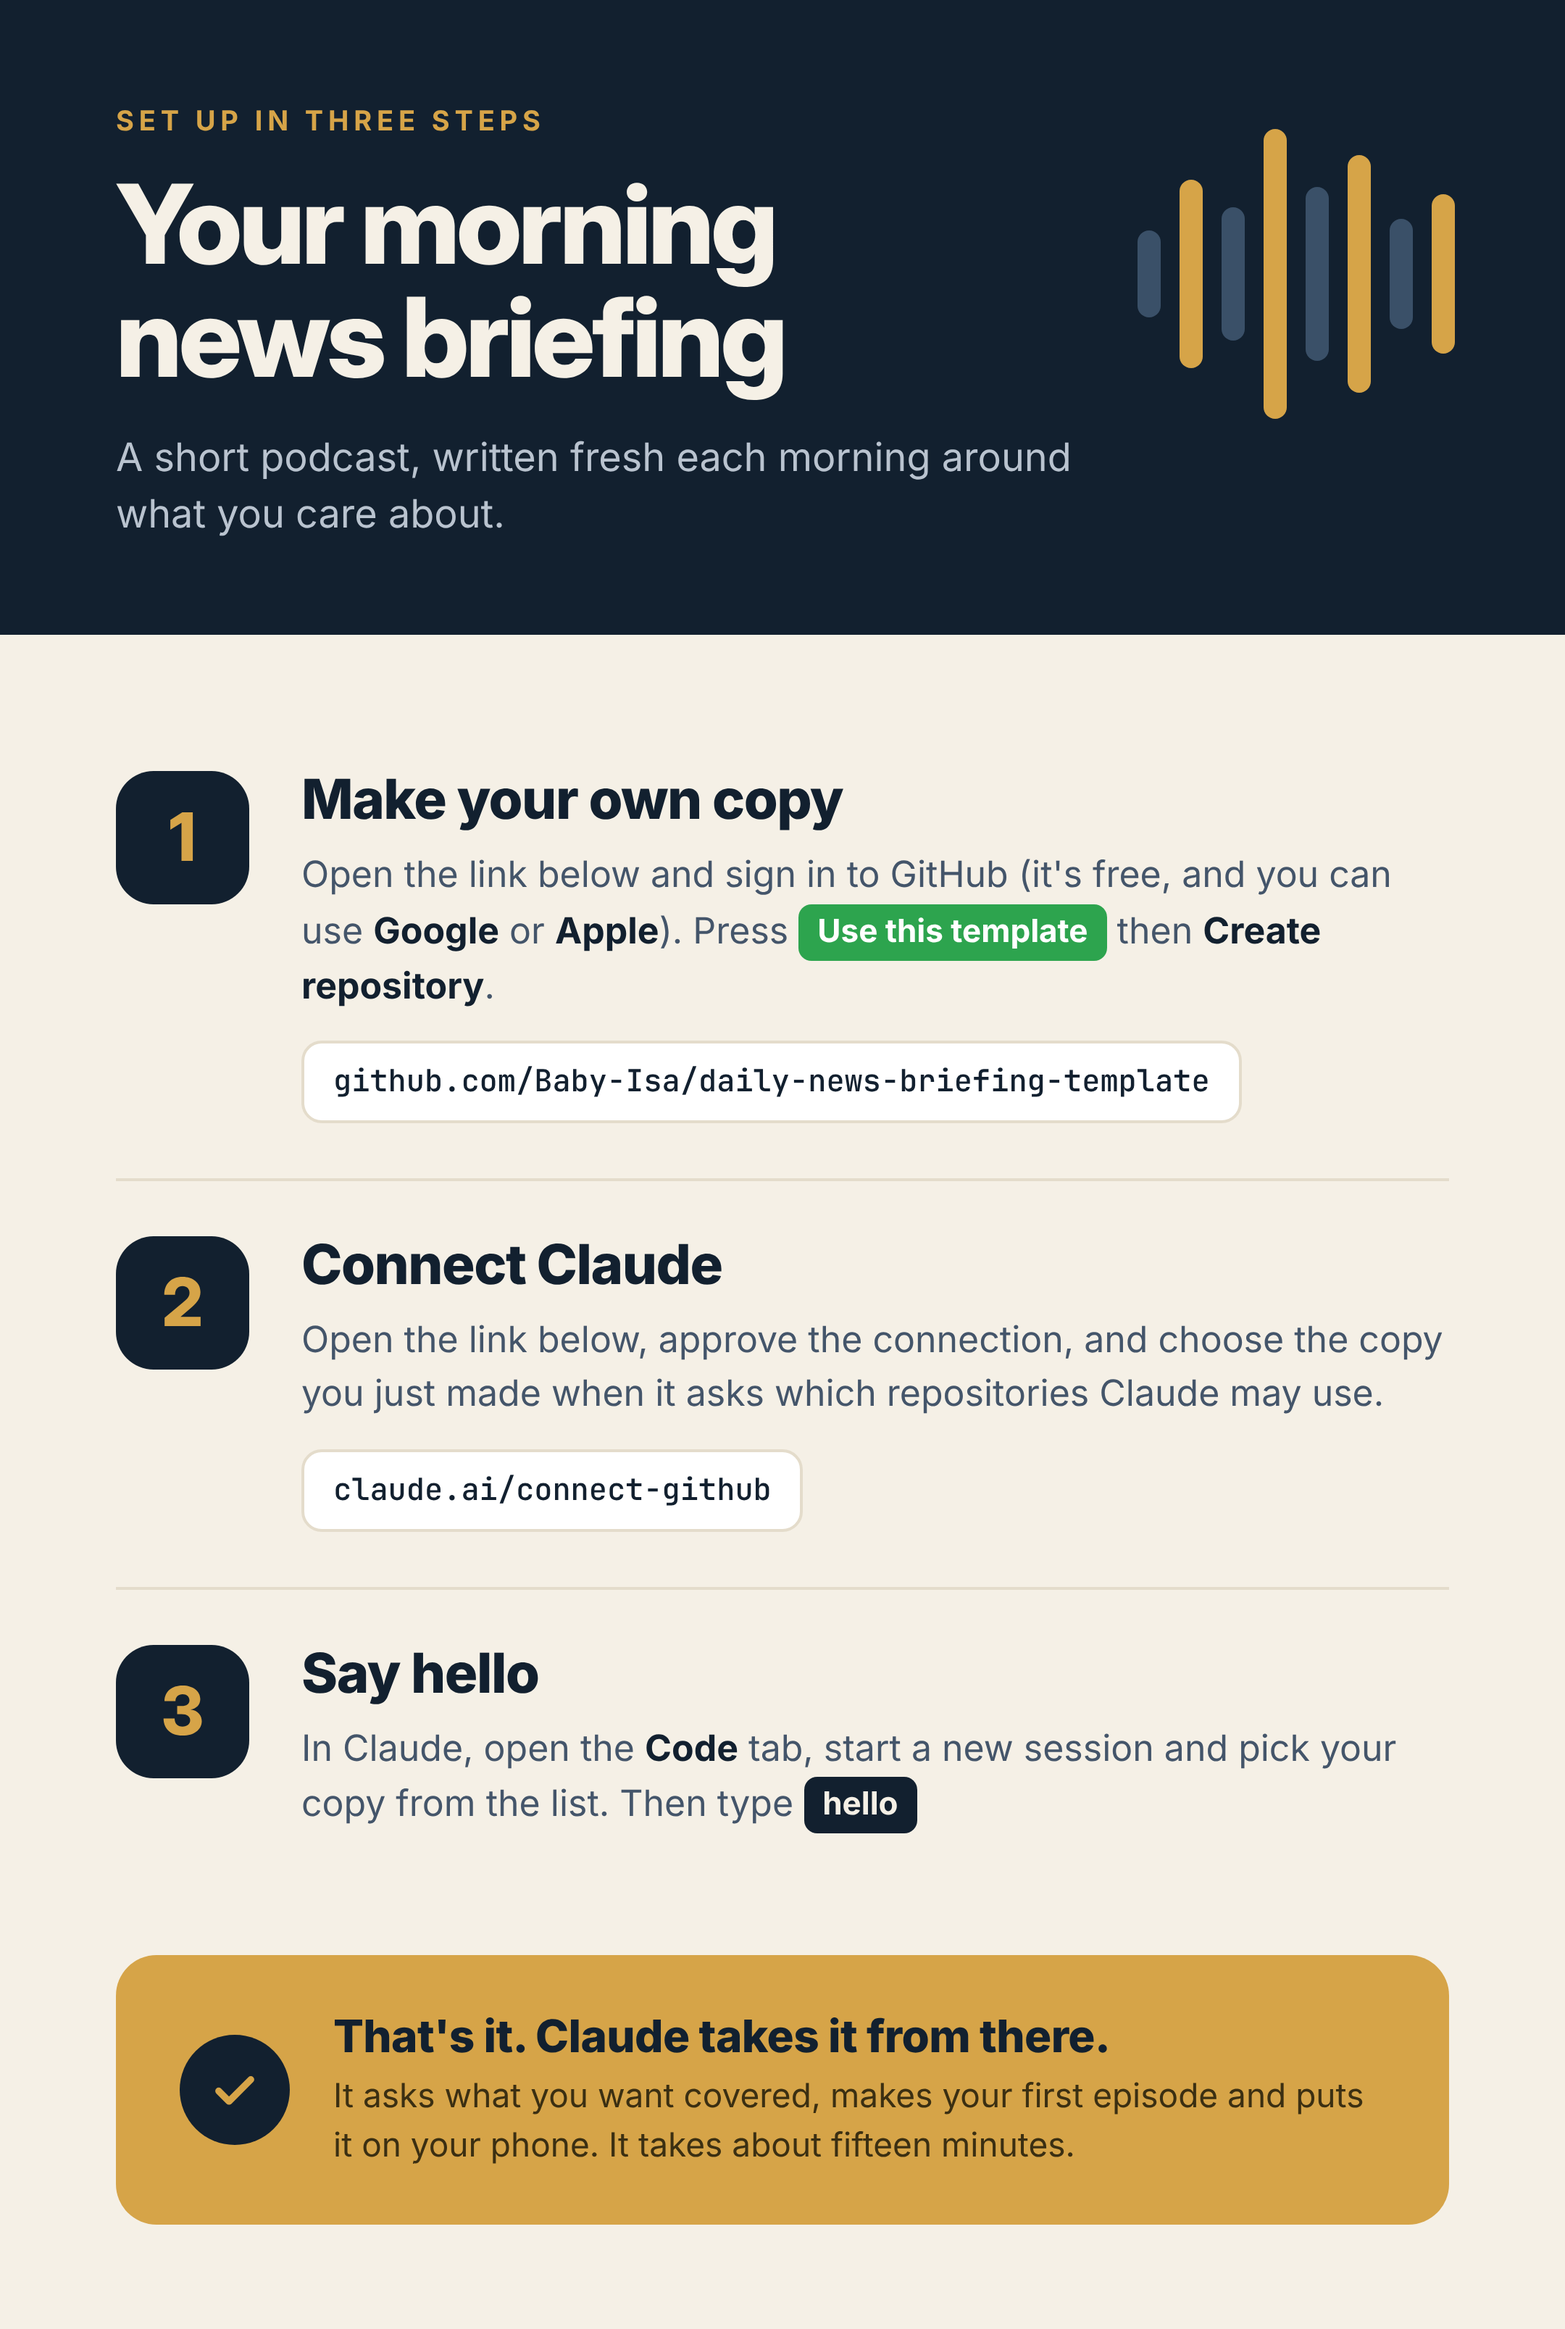
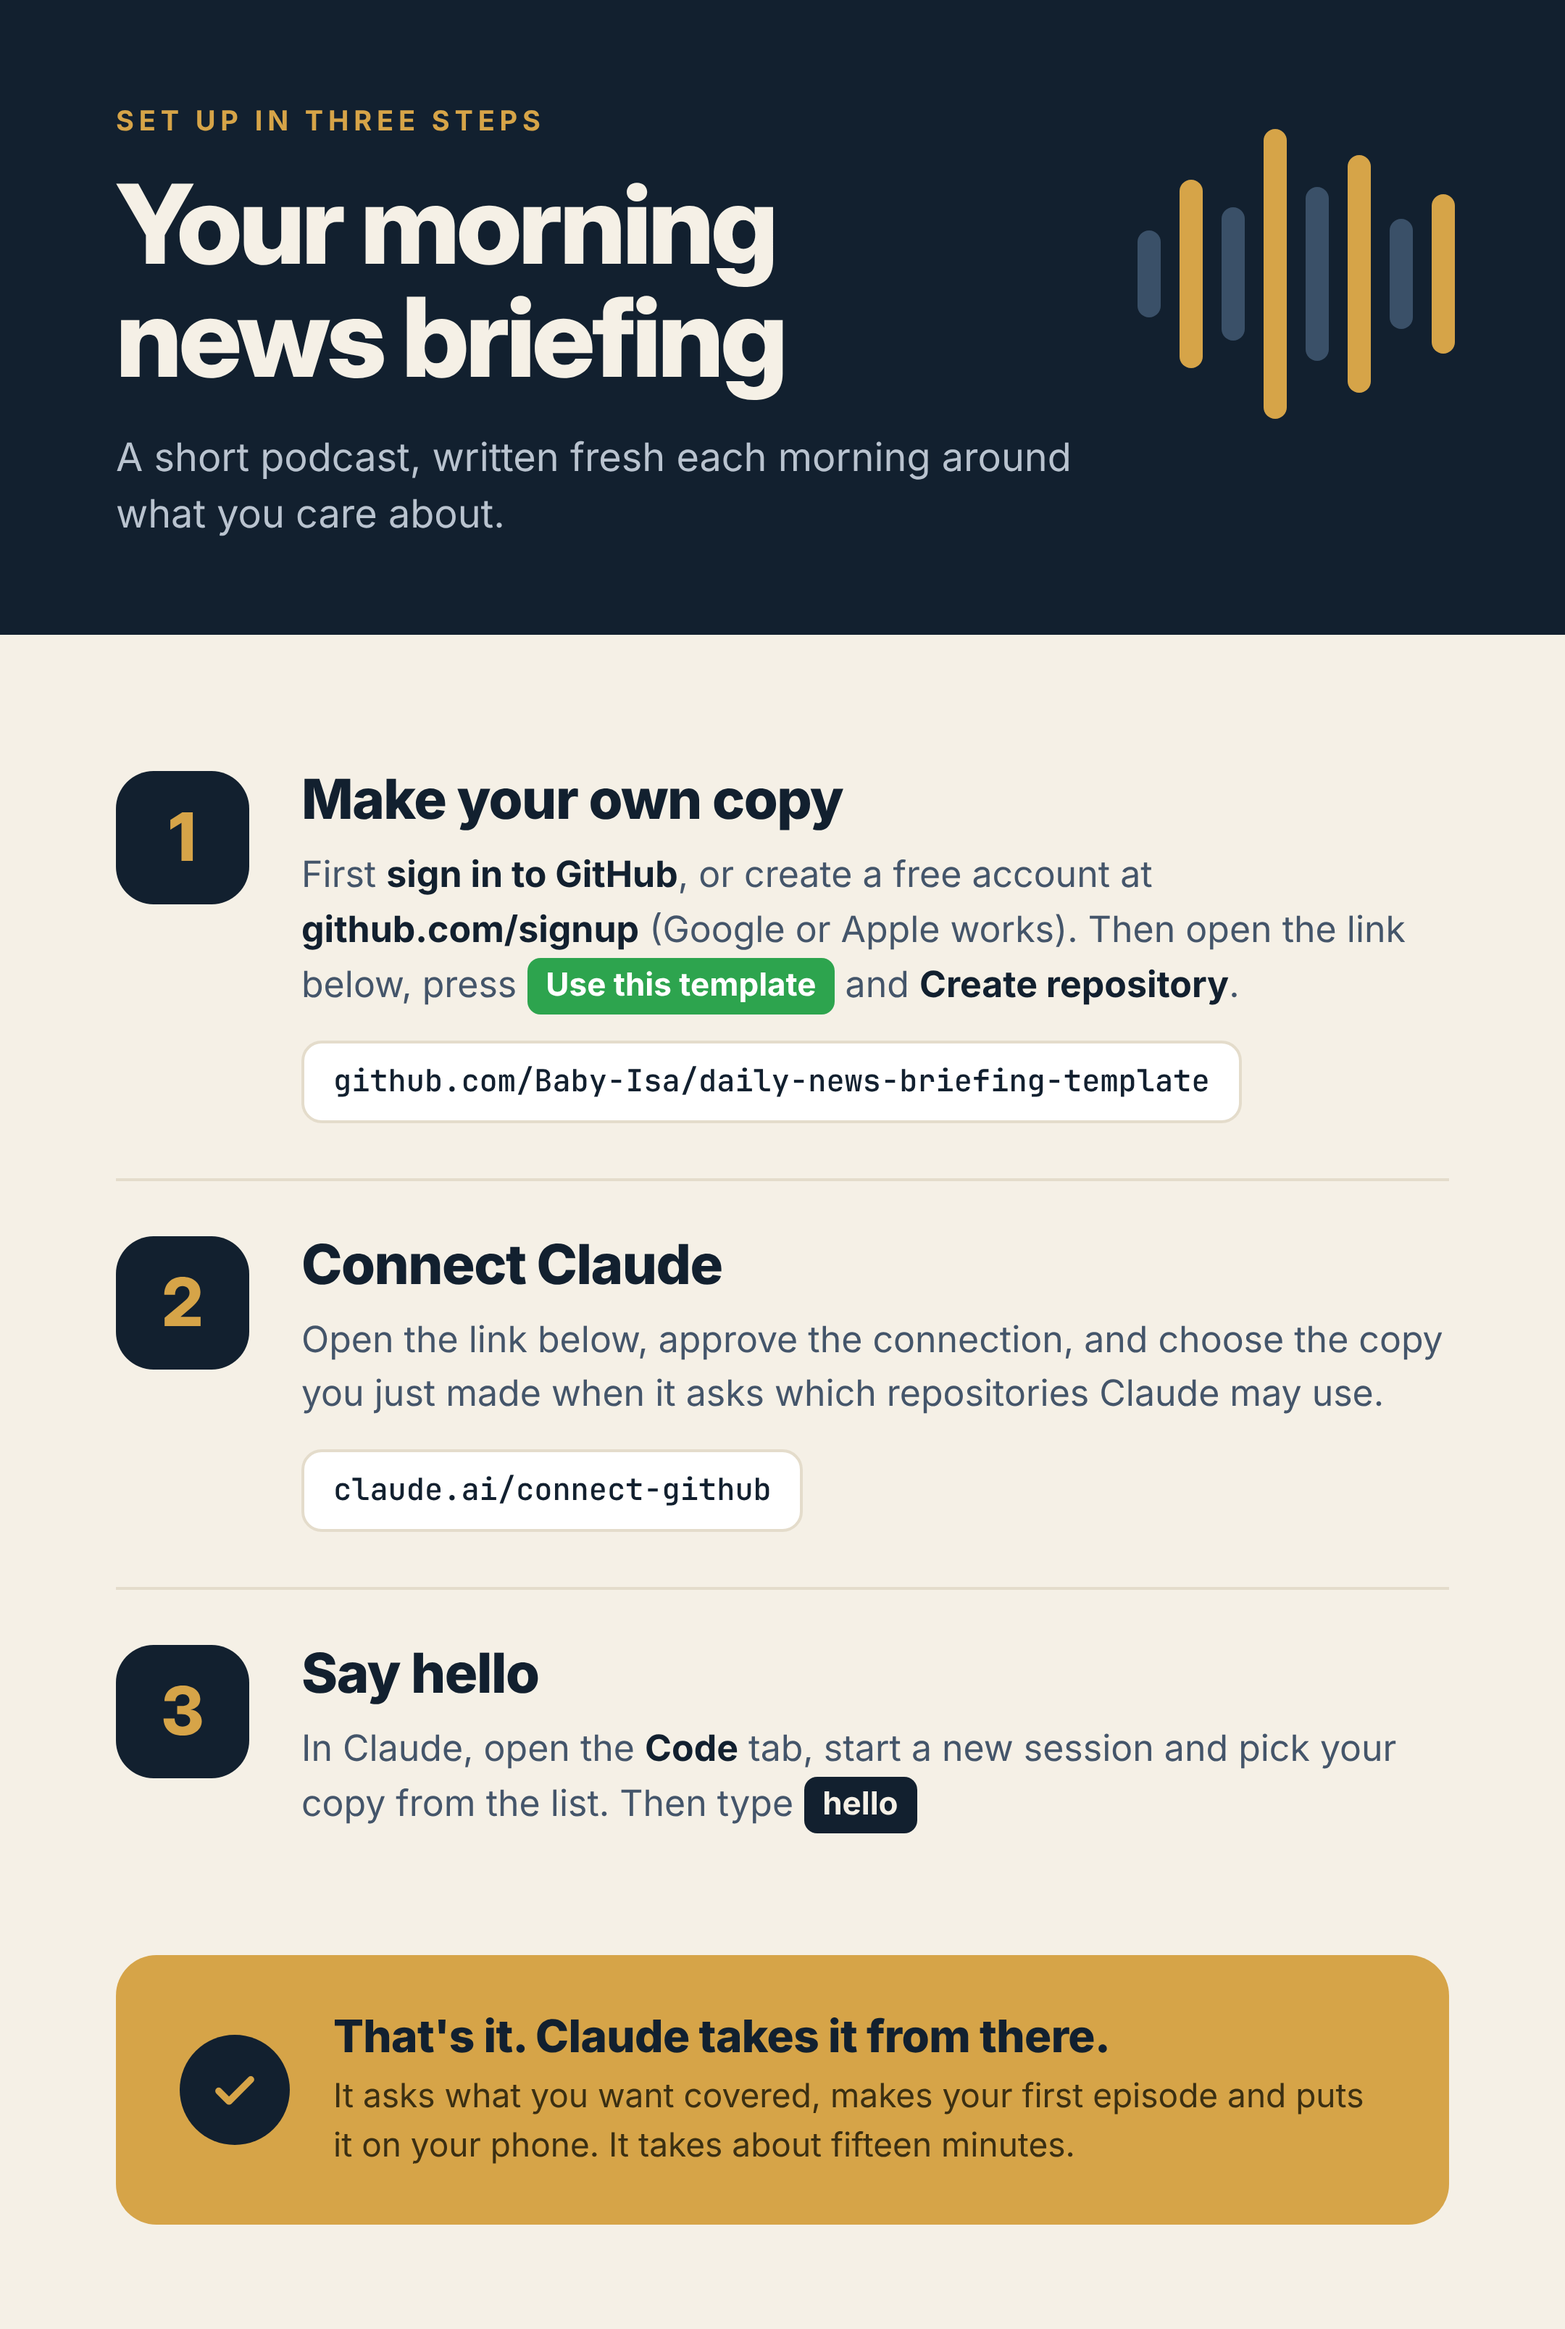
Guide and README: sign in to GitHub before looking for 'Use this template'
Claude-Session: https://claude.ai/code/session_014xb3kSs1bFerZKEqYihqMs

Changed region(s): [[0.1861, 0.3734, 0.8995, 0.4356]]

diff --git a/README.md b/README.md
@@ -13,8 +13,10 @@ in about fifteen minutes and then runs it for you.
 
 ## Set it up in three steps
 
-**1. Make your own copy.** Press the green **Use this template** button at
-the top of this page, then **Create a new repository**. Give it any name
+**1. Make your own copy.** Sign in to GitHub first (the button below only
+appears once you are signed in; you can create a free account at
+github.com/signup). Then press the green **Use this template** button at
+the top of this page, and **Create a new repository**. Give it any name
 (for example `my-briefing`) and press **Create repository**.
 
 **2. Connect Claude.** Open [claude.ai/connect-github](https://claude.ai/connect-github),
